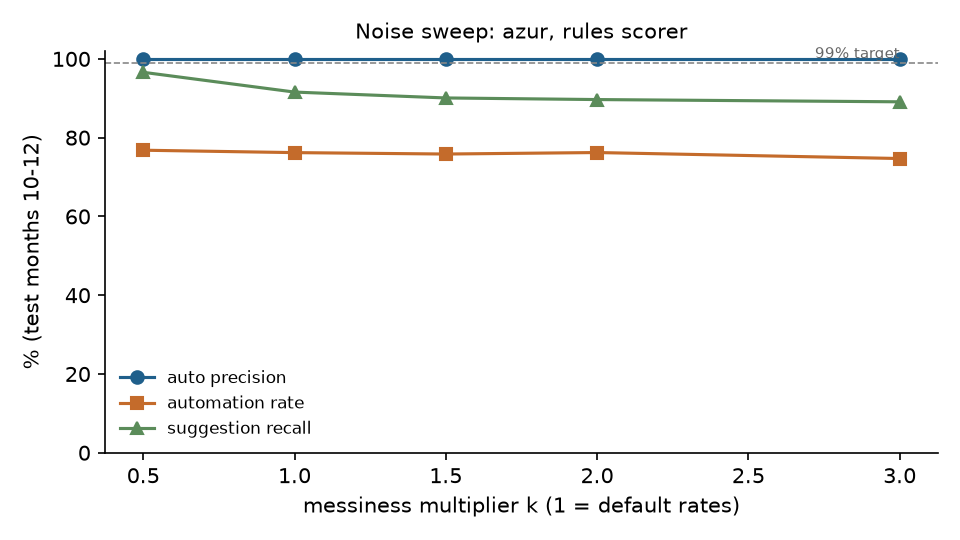
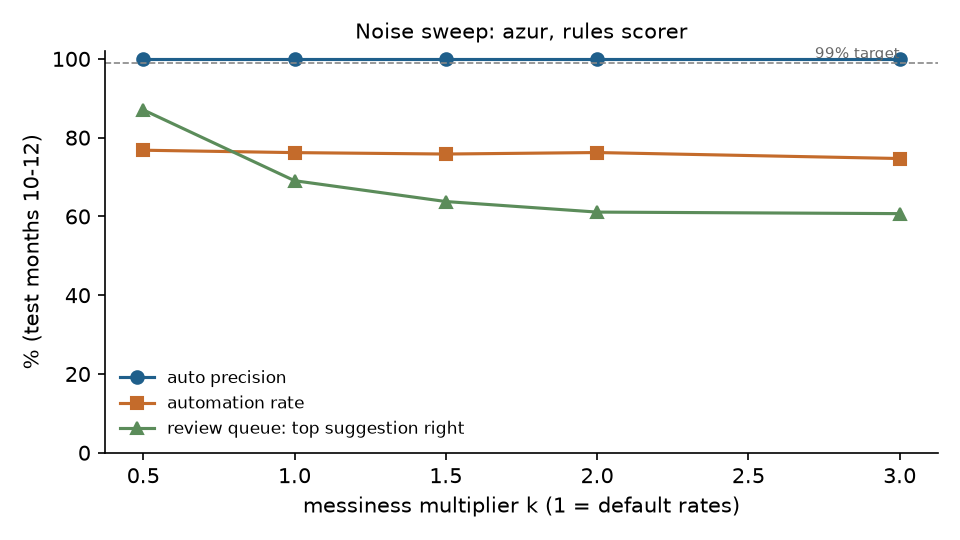
Regenerate noise sweep and feedback loop

diff --git a/reports/noise_sweep_azur_rules.md b/reports/noise_sweep_azur_rules.md
@@ -2,10 +2,10 @@
 
 Every messiness rate (typos, missing references, partial and multi-month payments, missing statements, unknown credits...) multiplied by k; same seed; full protocol each time (thresholds re-chosen on history, reported on months 10-12).
 
-| k | auto precision | 95% lower bound | automation | suggestion recall | review / week | wrong reminders |
+| k | auto precision | 95% lower bound | automation | review: top suggestion right | review / week | wrong reminders |
 |---|---|---|---|---|---|---|
-| 0.5 | 100.0% | 99.8% | 76.8% | 96.6% | 31.4 | 0 |
-| 1.0 | 100.0% | 99.8% | 76.2% | 91.6% | 30.7 | 1 |
-| 1.5 | 100.0% | 99.8% | 75.8% | 90.1% | 31.4 | 0 |
-| 2.0 | 100.0% | 99.8% | 76.2% | 89.7% | 31.2 | 1 |
-| 3.0 | 100.0% | 99.8% | 74.7% | 89.1% | 34.4 | 4 |
+| 0.5 | 100.0% | 99.8% | 76.8% | 87.1% | 31.4 | 0 |
+| 1.0 | 100.0% | 99.8% | 76.2% | 69.1% | 30.7 | 1 |
+| 1.5 | 100.0% | 99.8% | 75.8% | 63.8% | 31.4 | 0 |
+| 2.0 | 100.0% | 99.8% | 76.2% | 61.1% | 31.2 | 1 |
+| 3.0 | 100.0% | 99.8% | 74.7% | 60.7% | 34.4 | 4 |
